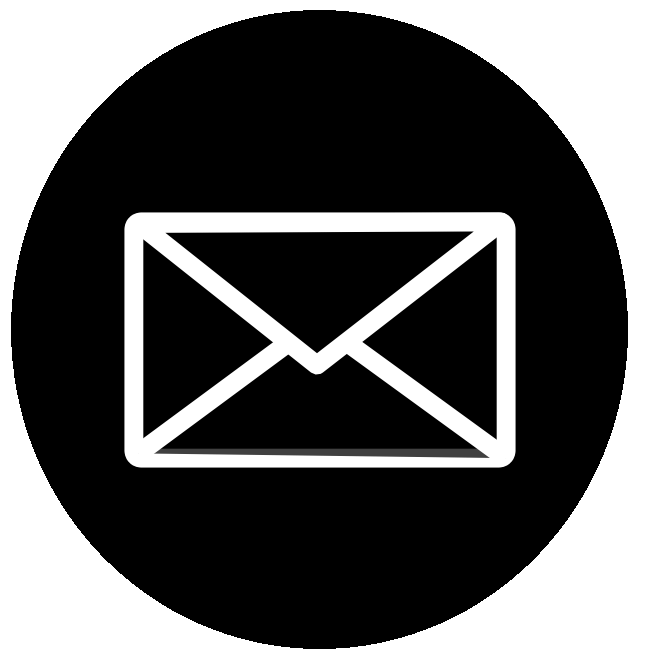
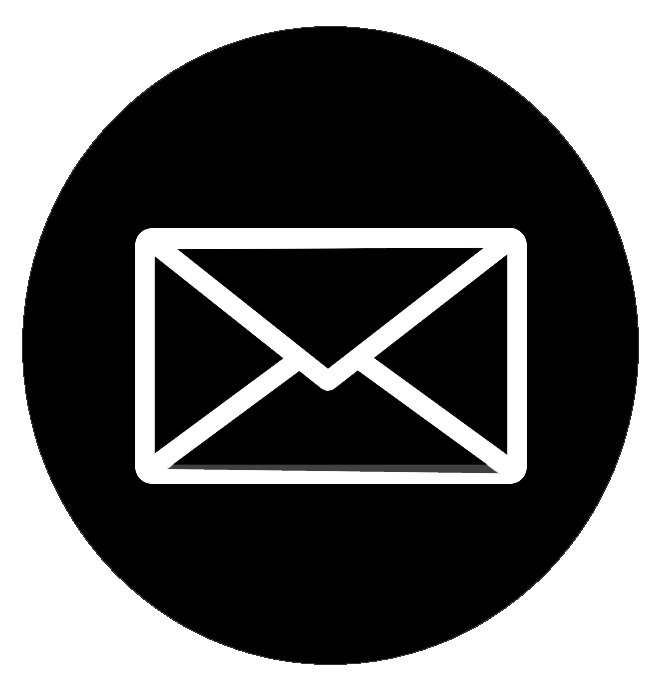
changed top nav

diff --git a/Me/index.html b/Me/index.html
@@ -1,7 +1,5 @@
 <!DOCTYPE>
 
-<!-- Carolyn Doan 10122518 Lab B03 -->
-
 <html>
 
 <head>
@@ -13,9 +11,34 @@
   <script src="https://cdnjs.cloudflare.com/ajax/libs/popper.js/1.12.9/umd/popper.min.js"></script>
   <script src="https://maxcdn.bootstrapcdn.com/bootstrap/4.0.0/js/bootstrap.min.js"></script>
 </head>
+<nav class="navbar navbar-inverse navbar-global navbar-fixed-top">
+      <div class="container-fluid">
+        <div class="navbar-header">
+          <!-- <button type="button" class="navbar-toggle collapsed" data-toggle="collapse" data-target="#navbar" aria-expanded="false" aria-controls="navbar"> -->
+            <span class="sr-only">Toggle navigation</span>
+            <span class="icon-bar"></span>
+            <span class="icon-bar"></span>
+            <span class="icon-bar"></span>
+          </button>
+          <a class="navbar-brand" href="#">Carolyn Doan</a>
+        </div>
+        <div class="contact">
+          <a href="https://www.linkedin.com/in/carolyndoan/"><input type="button" class="Linkedin"></a>
+          <a href="https://github.com/ckdoan"><input type="button" class="Github"></a>
+          <a href="mailto:carolynd1234@gmail.com"><input type="button" class="Email"></a>
+        </div>
+      </div>
+    </nav>
 
+<!-- https://codepen.io/nirmalkc/pen/JKjmVg -->
+
+<script>
+  $('.btn-expand-collapse').click(function(e) {
+				$('.navbar-primary').toggleClass('collapsed');
+});
+  </script>
 <body class=whole>
-  <div class="header">
+  <!-- <div class="header">
     <div class="contact">
       <a href="https://www.linkedin.com/in/carolyndoan/"><input type="button" class="myButton2"></a>
       <a href="https://github.com/ckdoan"><input type="button" class="myButton1"></a>
@@ -24,33 +47,20 @@
     <div class="container">
       <div class="name"><a href="index.html" style="text-decoration:none;">Carolyn Doan</a>
       </div>
-    </div>
+    </div> -->
     <div id="nav">
       <div id="nav_wrapper">
 
-        <br>
+
         <ul>
-          <li><a href="index.html">About</a>
-          </li>
-          <li><a href="skills.html">Skills</a>
-          </li>
-          <li> <a href="other.html">Experience</a>
-
-
-          </li>
-          <li> <a href="projects.html">Projects</a>
-
-          </li>
-          <li>
-          <a href="interests.html">Interests</a>
-          </li>
-
+          <li><a href="index.html" style="text-decoration:none;">About</a></li>
+          <li><a href="skills.html" style="text-decoration:none;">Skills</a></li>
+          <li> <a href="other.html" style="text-decoration:none;">Experience</a></li>
+          <li> <a href="projects.html" style="text-decoration:none;">Projects</a></li>
+          <li><a href="interests.html" style="text-decoration:none;">Interests</a></li>
         </ul>
       </div>
-      <!-- Nav wrapper end -->
-
     </div>
-    <!-- Nav end -->
   </div>
 
   <div id="container">

diff --git a/Me/personal.css b/Me/personal.css
@@ -1,14 +1,14 @@
-.myButton1{
+.Github{
     background:url(./Images/github.png) no-repeat;
     cursor:pointer;
     border:none;
     width:50px;
     height:50px;
-    background-size: 50px 50px;
+    background-size: 51px 52px;
   }
 
-  .myButton2{
-    background:url(./Images/Linkedin.png) no-repeat;
+  .Linkedin{
+    background:url(./Images/LI.png) no-repeat;
     cursor:pointer;
     border:none;
     width:50px;
@@ -16,11 +16,68 @@
     background-size: 50px 50px;
   }
 
-  .myButton3{
+  .Email{
     background:url(./Images/Email.png) no-repeat;
     cursor:pointer;
     border:none;
     width:50px;
     height:50px;
     background-size: 50px 50px;
+  }
+
+  ul {
+    list-style-type: none;
+    margin: 0;
+    padding: 0;
+    /* width: 10%; */
+    white-space:nowrap;
+    background-color: #f1f1f1;
+    position: fixed;
+    height: 100%;
+    overflow: auto;
+  }
+
+  li a {
+    display: block;
+    color: #000;
+    padding: 8px 16px;
+    text-decoration: none;
+  }
+
+  li a.active {
+    background-color: #4CAF50;
+    color: white;
+  }
+
+  li a:hover:not(.active) {
+    background-color: #555;
+    color: white;
+  }
+
+  .navbar-global {
+    background-color: #C286B4;
+  }
+
+  .navbar-global .navbar-brand {
+    color: white;
+    font-size:2.125em ;
+  }
+
+  .navbar-global .navbar-user > li > a
+  {
+    color: white;
+  }
+
+  .navbar-primary {
+    background-color: #333;
+    bottom: 0px;
+    left: 0px;
+    position: absolute;
+    top: 51px;
+    width: 200px;
+    z-index: 8;
+    overflow: hidden;
+    -webkit-transition: all 0.1s ease-in-out;
+    -moz-transition: all 0.1s ease-in-out;
+    transition: all 0.1s ease-in-out;
   }
